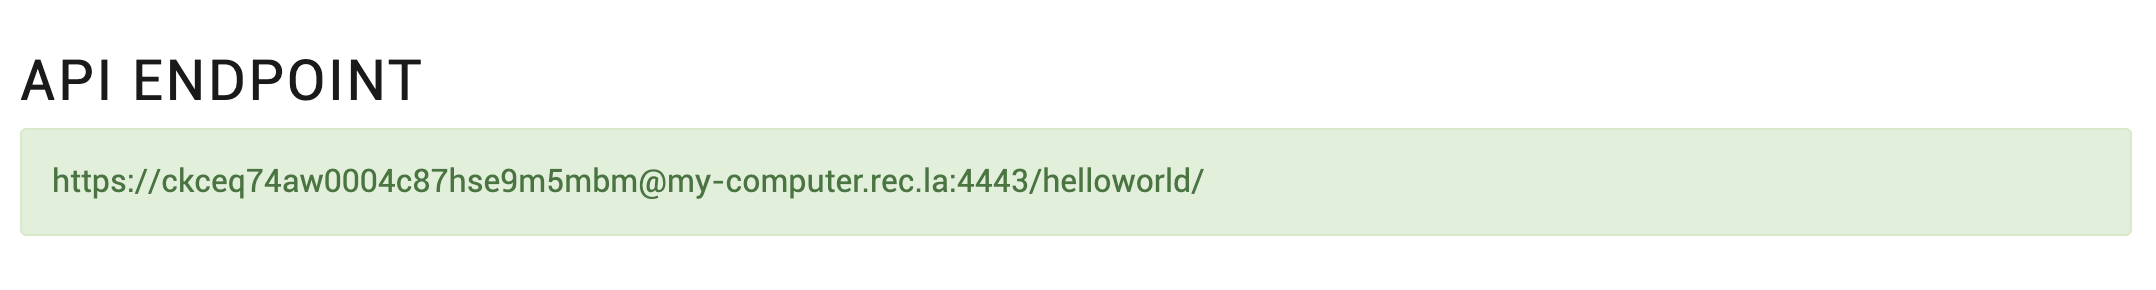
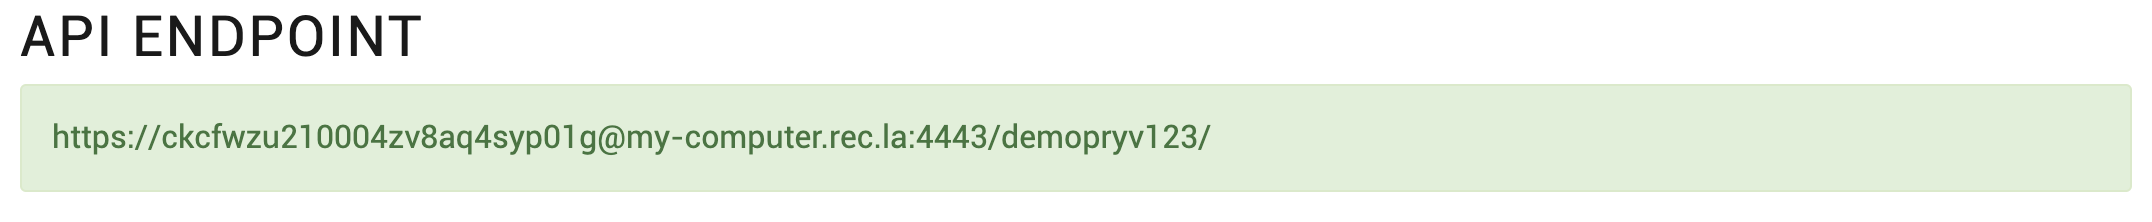
implement review, remove part on signin and change username

diff --git a/source/getting-started.md b/source/getting-started.md
@@ -85,8 +85,6 @@ Once your platform is up and running, you can create a user account and launch t
 <br />
 3. Fill in the form and click on the '**Create**' button.
 
-You can now sign in to your Open Pryv.io account on the following link: [https://my-computer.rec.la:4443/www/access/access.html](https://my-computer.rec.la:4443/www/access/access.html).
-
 # Obtain an Access Token
 
 Now that your Pryv.io account has been created using either Pryv lab or Open Pryv.io, you can start adding data. In order to do so by using code or API clients such as cURL or Postman, you first need to obtain an access token.
@@ -138,7 +136,7 @@ Each user account has a dedicated root API endpoint that is potentially served f
 The API endpoint will have the following format :
   - For a **Pryv Lab** account with username '**demopryv123**':
 ![Access Token](/assets/images/getting-started/access-token.png)
-  - For an **Open Pryv.io** account with username '**helloworld**':
+  - For an **Open Pryv.io** account with username '**demopryv123**':
 ![Access Token Open Pryv](/assets/images/getting-started/access-token-open.png)
 
 # Data Modelling
